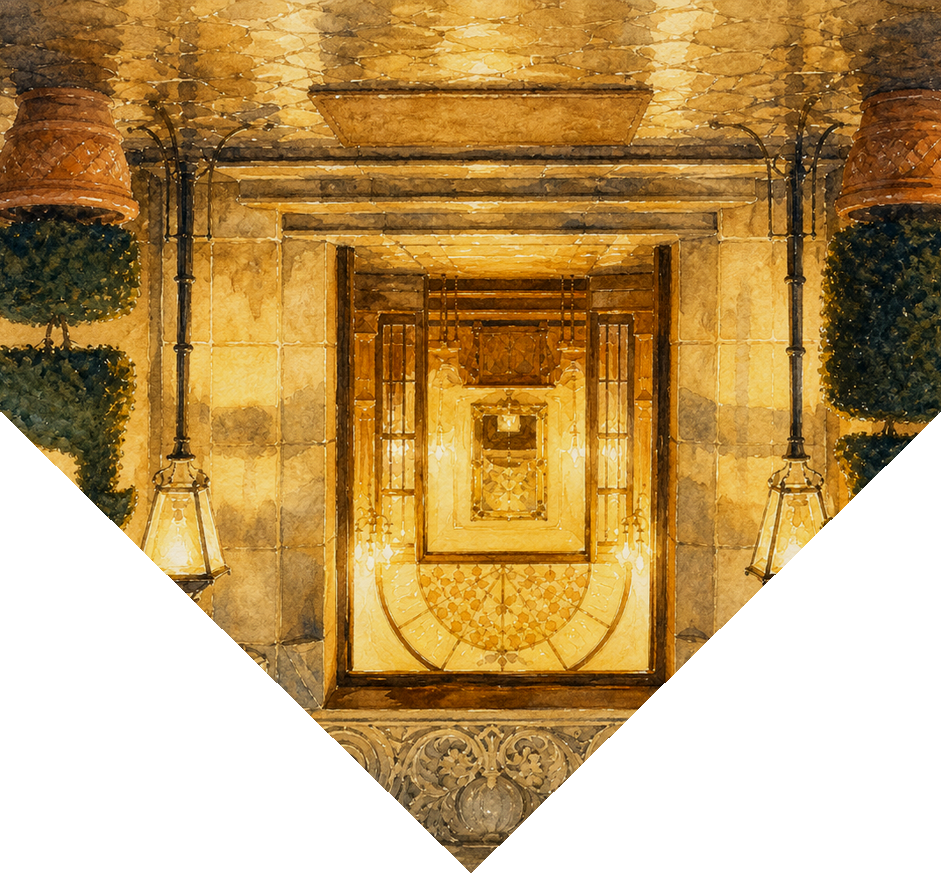
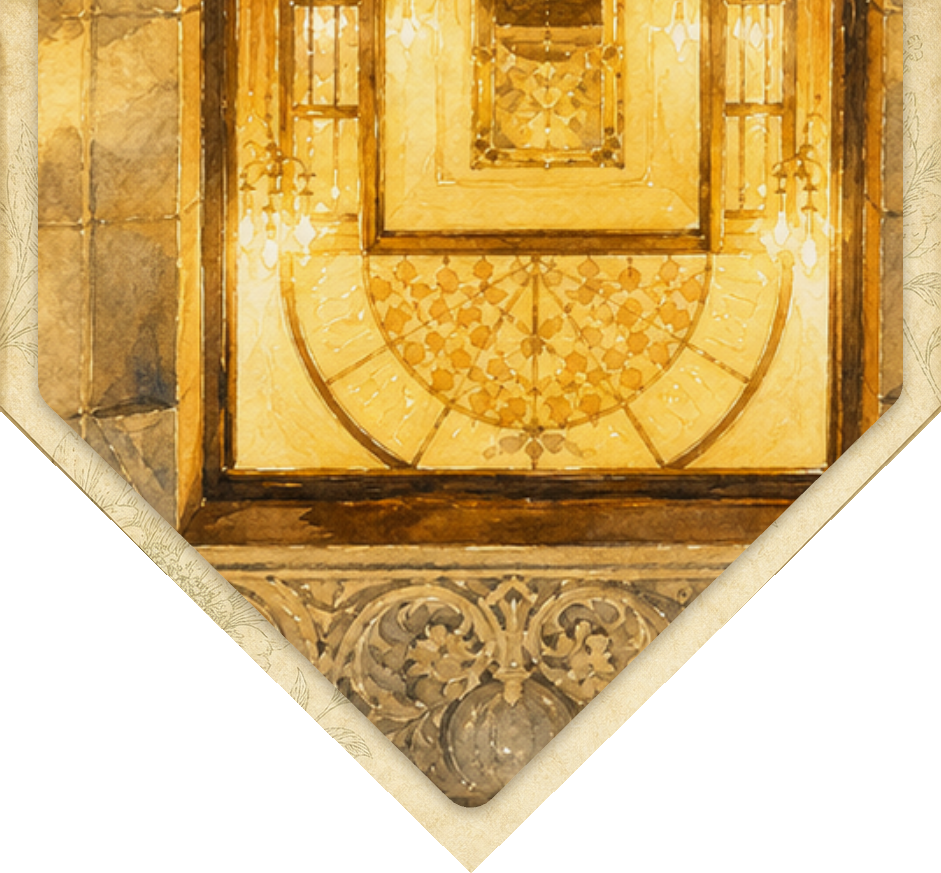
fix: 便箋の出し入れ動線と裏地の連続化 (24分割フレーム精査に基づく修正)
裏地:
- 上蓋と封筒内側の裏地を「折り目をまたいで繋がった一枚」として再設計。
  開いた状態で941x1746の連続した水彩画になるよう上下半分ずつ配置し、
  折り目の辺は余白なし・外周のみ余白+角丸 (貼り付けたライナーの見た目)
- 内側のグラデーションを「折り目=明るい→奥=暗い」に反転して繋がりを維持

便箋の動線 (食い込み・変な形の根治):
- 全フレーム撮影+24分割精査で特定: シートが口のV開口部より幅広のまま
  手前拡大を始め、四角い角がポケットの斜め縁を横切って「めり込み」に見えていた
- 静止時は上端がポケット縁から僅かに覗くだけの深さに (しっかり中に収まる)
- スライドで下端がV開口部の内側に入る高さまで一度しっかり引き出し、
  その状態でポケット遮蔽を素早く融解(幅拡大の前) → 角衝突が構造的に消滅
- ポケットのV縁がシートに落とす接触影を追加 (「後ろに差さっている」の読み)
- 便箋幅 0.72→0.66 envW (開口部との比率を現実的に)

diff --git a/index.html b/index.html
@@ -1465,7 +1465,8 @@
     const IMG_W = 941, IMG_H = 873;       // flap-cut.png / flap-back.png
     const SEAL_DANGLE = 180;
     const SRC_H = IMG_H + SEAL_DANGLE;
-    const LTR_W = 978, LTR_H = 1609, SLICE = LTR_H / 3;
+    const LTR_W = 978, LTR_H = 1609;          // letter-sheet.png 原画
+    const SHEET_H = 4009, SLICE = SHEET_H / 3; // 延長後のシート(パネル978x1336の縦長)
 
     function cubicBezier(p1x, p1y, p2x, p2y) {
       const cx = 3 * p1x, bx = 3 * (p2x - p1x) - cx, ax = 1 - cx - bx;
@@ -1502,6 +1503,33 @@
     shadowImg.src = 'images/opening-assets/flap-shadow.png';
     letterImg.src = 'images/opening-assets/letter-sheet.png';
     baseImg.src = 'images/opening-assets/envelope-base-lining.png';
+
+    // 便箋を縦に延長した合成テクスチャ (上キャップ0..700 + ミラータイル + 下キャップ700..1609)
+    const letterComp = document.createElement('canvas');
+    letterComp.width = LTR_W;
+    letterComp.height = SHEET_H;
+    function buildLetter() {
+      const c = letterComp.getContext('2d');
+      c.drawImage(letterImg, 0, 0, LTR_W, 700, 0, 0, LTR_W, 700);
+      c.drawImage(letterImg, 0, 700, LTR_W, 909, 0, SHEET_H - 909, LTR_W, 909);
+      let y = 700;
+      const end = SHEET_H - 909;   // 700+800*2 の設計で端数ゼロ
+      let flip = false;
+      while (y < end) {
+        const h = Math.min(400, end - y);
+        if (flip) {
+          c.save();
+          c.translate(0, y * 2 + h);
+          c.scale(1, -1);
+          c.drawImage(letterImg, 0, 1100 - h, LTR_W, h, 0, y, LTR_W, h);
+          c.restore();
+        } else {
+          c.drawImage(letterImg, 0, 700, LTR_W, h, 0, y, LTR_W, h);
+        }
+        y += h;
+        flip = !flip;
+      }
+    }
 
     // フラップ表(紙+封蝋)・裏(裏地) の等倍合成オフスクリーン
     const flapComp = document.createElement('canvas');
@@ -1654,21 +1682,23 @@
 
     // 三つ折りの羊皮紙: 口の中で待機 → 上へスライド → 封筒から広がる → 画面を満たす
     function drawLetter(tp, es, envTop) {
-      const S0 = 0.36, S1 = 0.48;      // スライド(上へ)
-      const T0 = 0.48, T1 = 0.64;      // 上パネル展開
-      const B0 = 0.66, B1 = 0.82;      // 下パネル展開
-      const P0 = 0.62, P1 = 0.90;      // 取り出し + 画面を満たす
-      const M0 = 0.72, M1 = 0.88;      // ポケット遮蔽の融解
+      const S0 = 0.36, S1 = 0.50;      // スライド(上へ大きく引き出す)
+      const T0 = 0.50, T1 = 0.66;      // 上パネル展開
+      const B0 = 0.70, B1 = 0.84;      // 下パネル展開
+      const P0 = 0.64, P1 = 0.92;      // 手前へ + 画面を満たす
+      const M0 = 0.60, M1 = 0.68;      // ポケット遮蔽の融解(幅が広がる前に完了させ角衝突を防ぐ)
       if (tp >= 0.985) tp = 0.985;
       const persp = 5.13 * W;
       const cxS = W / 2;
       const envH = H * es;
       const pSlide = easeIO(clamp01((tp - S0) / (S1 - S0)));
       const pFill = easeIO(clamp01((tp - P0) / (P1 - P0)));
-      const sheetW = (0.62 * W * es) * (1 - pFill) + 1.10 * W * pFill;
-      const panelL = sheetW * (LTR_H / LTR_W) / 3;
-      const restTop = envTop + 0.13 * envH;
-      const slidTop = restTop - 0.27 * envH * pSlide;
+      const sheetW = (0.66 * W * es) * (1 - pFill) + 1.04 * W * pFill;
+      const panelL = sheetW * (SHEET_H / LTR_W) / 3;
+      // 静止時は上端がポケット縁から僅かに覗くだけ(しっかり中に収まっている)
+      const restTop = envTop + 0.215 * envH;
+      // スライドで下端が V 開口部の内側に入る高さまで引き出す
+      const slidTop = restTop - 0.42 * envH * pSlide;
       const midTop = (1 - pFill) * slidTop + pFill * (H / 2 - panelL / 2);
       const phiT = Math.PI * (1 - easeIO(clamp01((tp - T0) / (T1 - T0))));
       const phiB = Math.PI * (1 - easeIO(clamp01((tp - B0) / (B1 - B0))));
@@ -1686,11 +1716,11 @@
             ctx.save();
             ctx.translate(0, yTop * 2 + panelL);
             ctx.scale(1, -1);
-            ctx.drawImage(letterImg, 0, sy, LTR_W, SLICE,
+            ctx.drawImage(letterComp, 0, sy, LTR_W, SLICE,
               cxS - sheetW / 2, dirScreen > 0 ? yTop : yTop - ov, sheetW, panelL + ov);
             ctx.restore();
           } else {
-            ctx.drawImage(letterImg, 0, sy, LTR_W, SLICE,
+            ctx.drawImage(letterComp, 0, sy, LTR_W, SLICE,
               cxS - sheetW / 2, dirScreen > 0 ? yTop - ov : yTop, sheetW, panelL + ov);
           }
         } else {
@@ -1704,7 +1734,7 @@
             const r0 = (Y0 / panelL) * SLICE;
             const r1 = Math.max((Y1 / panelL) * SLICE, r0 + 0.4);
             const syy = texFlip ? sy + SLICE - r1 : sy + r0;
-            ctx.drawImage(letterImg, 0, syy, LTR_W, r1 - r0,
+            ctx.drawImage(letterComp, 0, syy, LTR_W, r1 - r0,
               cxS - wD / 2, creaseY + dirScreen * yd - (dirScreen < 0 ? 1 : 0), wD, 1);
           }
           if (dark > 0.01) {
@@ -1741,7 +1771,7 @@
       if (phiB < Math.PI / 2 - 0.02) {
         panel(SLICE * 2, midTop + panelL, 1, phiB, false, 0.18 * Math.sin(phiB));
       }
-      ctx.drawImage(letterImg, 0, SLICE, LTR_W, SLICE, cxS - sheetW / 2, midTop, sheetW, panelL);
+      ctx.drawImage(letterComp, 0, SLICE, LTR_W, SLICE, cxS - sheetW / 2, midTop, sheetW, panelL);
       if (phiT > Math.PI / 2) {
         panel(0, midTop, 1, Math.PI - phiT, true, 0.16 * Math.sin(phiT));
       } else {
@@ -1764,6 +1794,23 @@
         sh2.addColorStop(1, 'rgba(20, 14, 8, 0)');
         ctx.fillStyle = sh2;
         ctx.fillRect(cxS - sheetW / 2, y2, sheetW, 0.2 * panelL * sB);
+      }
+      // ポケットの縁(V字)がシートに落とす接触影 — 「後ろに差さっている」の読みを作る
+      if (m < 1) {
+        const bandY0 = envTop + 0.246 * envH;
+        const tipY0 = envTop + 0.522 * envH;
+        const eX = (W - W * es) / 2;
+        const a = 1 - m;
+        for (const [wLine, aLine] of [[16, 0.07], [7, 0.11]]) {
+          ctx.strokeStyle = 'rgba(28, 18, 10, ' + (aLine * a).toFixed(3) + ')';
+          ctx.lineWidth = wLine;
+          ctx.lineCap = 'round';
+          ctx.beginPath();
+          ctx.moveTo(eX, bandY0);
+          ctx.lineTo(cxS, tipY0);
+          ctx.lineTo(W - eX, bandY0);
+          ctx.stroke();
+        }
       }
       ctx.restore();
     }
@@ -1825,6 +1872,7 @@
     let started = false;
 
     function boot() {
+      buildLetter();
       fitCanvas();
       renderFrame(0);
       // ベースは canvas が毎フレーム描く (DOM のままだとカメラ引きに追従できない)